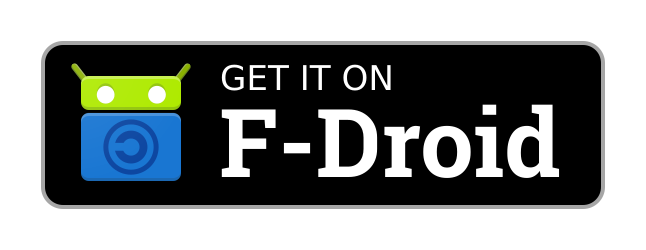
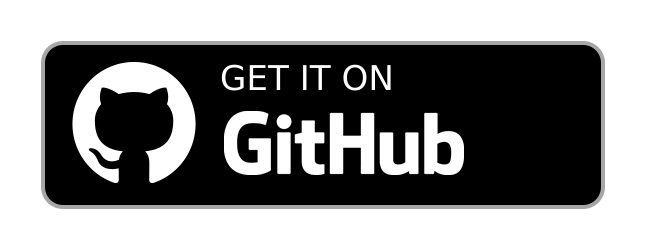
update

Changed region(s): [[0.3406, 0.42, 0.8669, 0.728], [0.0929, 0.224, 0.3096, 0.728], [0.743, 0.42, 0.774, 0.476]]

diff --git a/docs/en/index.md b/docs/en/index.md
@@ -18,7 +18,7 @@ sidebar: false
 <a href="https://play.google.com/store/apps/details?id=cn.ac.xjtlu.yaxjtlu">
 <img src="../img/index-1.png" width="25%"/>
 </a>
-<a href="https://f-droid.org/packages/cn.ac.xjtlu.yaxjtlu">
+<a href="https://github.com/lz233/YAXJTLUDocument/releases">
 <img src="../img/index-2.png" width="25%"/>
 </a>
 </p>

diff --git a/docs/index.md b/docs/index.md
@@ -18,7 +18,7 @@ sidebar: false
 <a href="https://play.google.com/store/apps/details?id=cn.ac.xjtlu.yaxjtlu">
 <img src="./img/index-1.png" width="25%"/>
 </a>
-<a href="https://f-droid.org/packages/cn.ac.xjtlu.yaxjtlu/">
+<a href="https://github.com/lz233/YAXJTLUDocument/releases">
 <img src="./img/index-2.png" width="25%"/>
 </a>
 </p>
